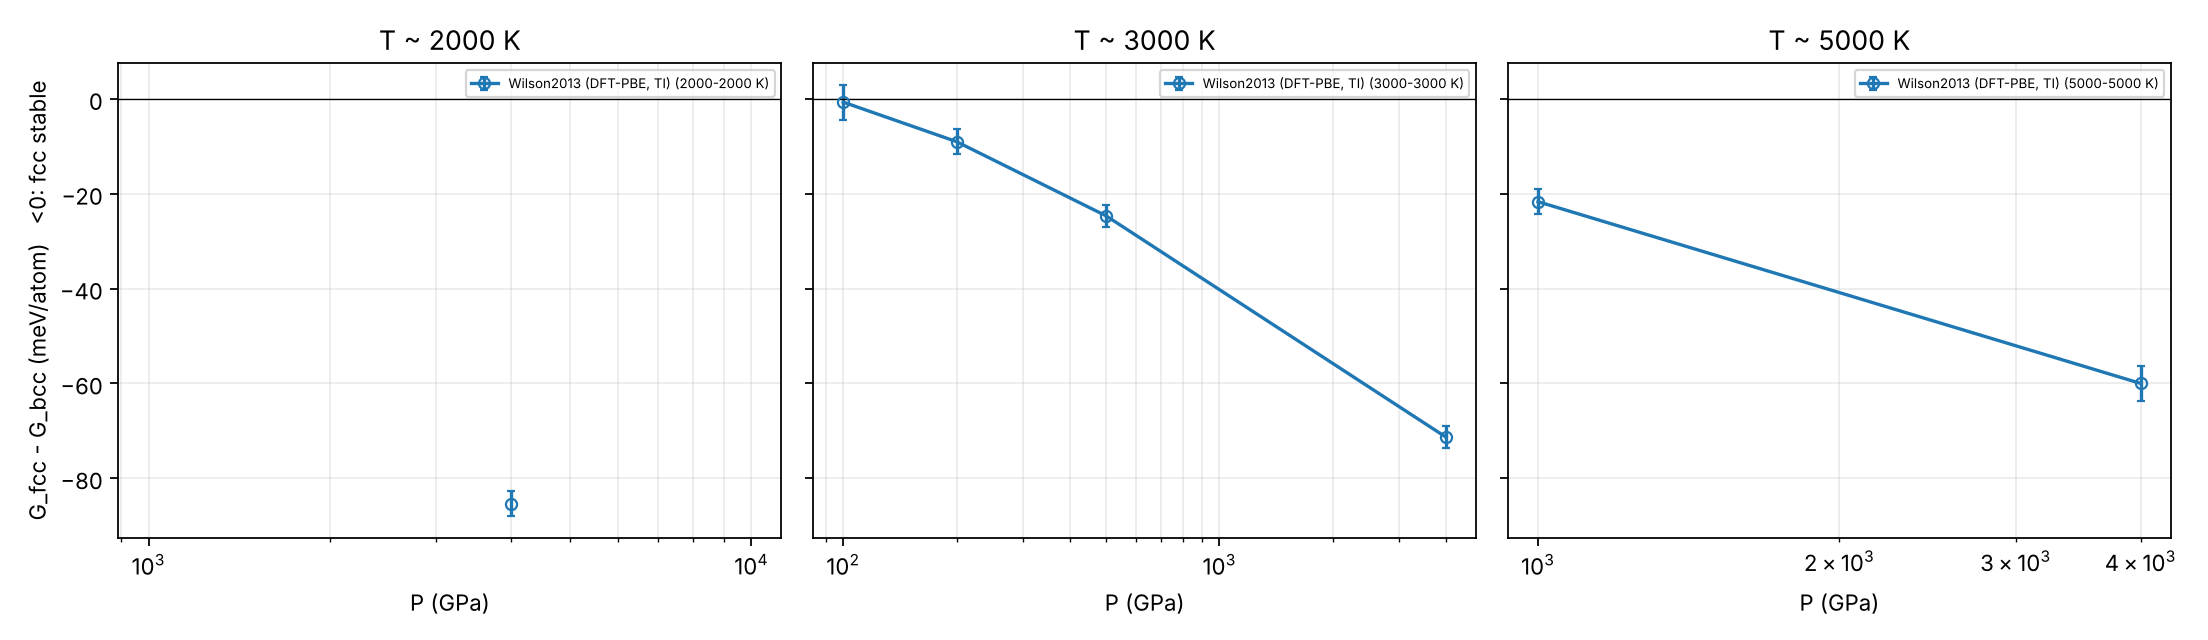
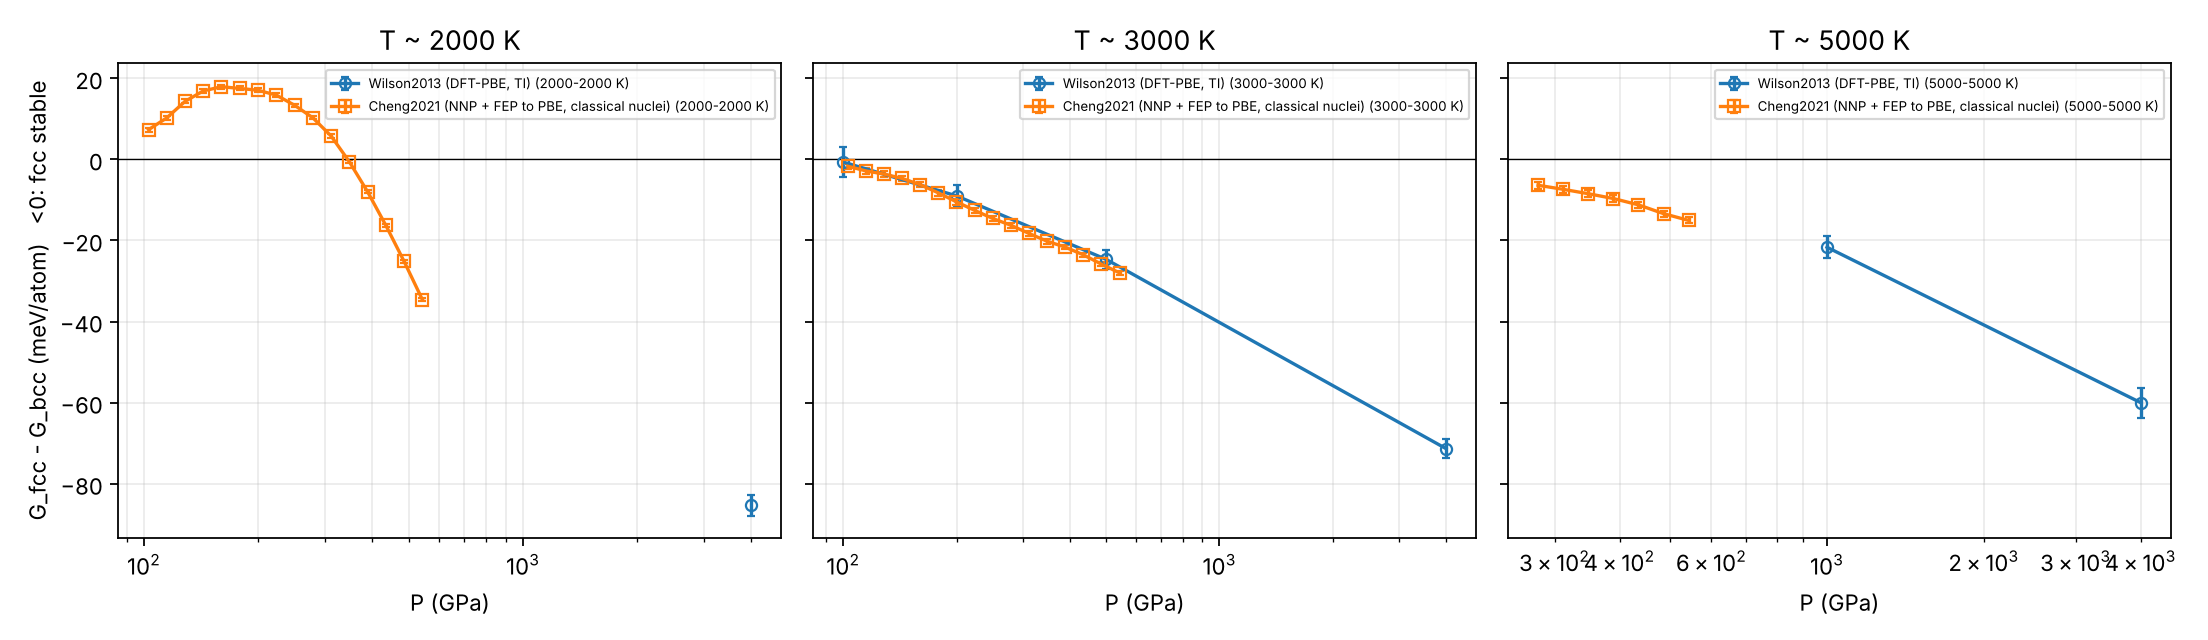
Cheng et al. data: mu_bcc - mu_fcc table extracted (agrees with Wilson at 3000 K), training-set facts, 2022 and 2025 Nature Communications papers read; TDI targets 22.1 meV/atom at 400 GPa and 26.5 at 500 GPa
Claude-Session: https://claude.ai/code/session_01GLhpDtd1VrvkJQKS5bMShY

diff --git a/docs/extract_cheng_mu.py b/docs/extract_cheng_mu.py
@@ -1,0 +1,49 @@
+"""Derive mu_bcc - mu_fcc (eV per H2O molecule) from the tables of Cheng, Bethkenhagen, Pickard, Hamel, Nat. Phys. 17, 1228 (2021),
+data set https://github.com/BingqingCheng/superionic-water (directory chemical-potential; read-only clone, not copied into this repo).
+usage: python docs/extract_cheng_mu.py /path/to/superionic-water [--T 2000 3000 4000 5000]
+Per README of that data set: mu_PBE(+NQE) = mu-mlp-cl + mu-mlp2pbe + mu-nqe. Columns written (eV/molecule; per atom = /3):
+  dmu_mlp   classical nuclei, MLP level      dmu_pbe   + PBE free-energy-perturbation correction (this is what compares to Wilson et al.)
+  err_fep   statistical error of the correction only (the TI error is not tabulated)      dmu_pbe_nqe   + nuclear quantum effects
+Interpolation: bilinear in (ln P, T) on the native grid (80 pressures 10-800 GPa, 60 temperatures 300-5500 K); NaN where any corner is NaN.
+"""
+import argparse, os
+import numpy as np
+
+ap = argparse.ArgumentParser(); ap.add_argument("repo"); ap.add_argument("--T", type=float, nargs="+", default=[2000, 3000, 4000, 5000])
+ap.add_argument("--out", default=os.path.join(os.path.dirname(os.path.abspath(__file__)), "data", "cheng2021_dmu_bcc_fcc.csv"))
+a = ap.parse_args()
+
+
+def grid(name, col=2):
+    d = np.loadtxt(os.path.join(a.repo, "chemical-potential", name))
+    P = np.array(sorted(set(np.round(d[:, 0], 6)))); T = np.array(sorted(set(np.round(d[:, 1], 6))))
+    G = np.full((len(P), len(T)), np.nan)
+    for r in d:
+        G[np.argmin(abs(P - r[0])), np.argmin(abs(T - r[1]))] = r[col]
+    return P, T, G
+
+
+def val(P, T, G, p, t):
+    lp = np.log(P); i = np.searchsorted(lp, np.log(p)) - 1; j = np.searchsorted(T, t) - 1
+    if i < 0 or j < 0 or i + 1 >= len(P) or j + 1 >= len(T):
+        return np.nan
+    x = (np.log(p) - lp[i]) / (lp[i + 1] - lp[i]); y = (t - T[j]) / (T[j + 1] - T[j]); c = G[i:i + 2, j:j + 2]
+    return np.nan if np.isnan(c).any() else (1 - x) * (1 - y) * c[0, 0] + x * (1 - y) * c[1, 0] + (1 - x) * y * c[0, 1] + x * y * c[1, 1]
+
+
+Q = {ph: dict(cl=grid(f"mu-mlp-cl-{ph}.dat"), corr=grid(f"mu-mlp2pbe-{ph}.dat", 2), err=grid(f"mu-mlp2pbe-{ph}.dat", 3), nqe=grid(f"mu-nqe-{ph}.dat")) for ph in ("bcc", "fcc")}
+Pn = Q["bcc"]["cl"][0]
+rows = []
+for T in a.T:
+    for P in Pn[(Pn >= 100) & (Pn <= 800)][::2]:
+        g = {k: [val(*Q[ph][k], P, T) for ph in ("bcc", "fcc")] for k in ("cl", "corr", "err", "nqe")}
+        dcl, dc, dn, e = g["cl"][0] - g["cl"][1], g["corr"][0] - g["corr"][1], g["nqe"][0] - g["nqe"][1], float(np.hypot(*g["err"]))
+        if np.isnan(dcl + dc):
+            continue
+        rows.append((T, P, dcl, dcl + dc, e, dcl + dc + dn))
+with open(a.out, "w") as f:
+    f.write("# mu_bcc - mu_fcc in eV per H2O molecule, derived from Cheng et al. Nat. Phys. 2021 data (github.com/BingqingCheng/superionic-water); positive = fcc more stable. See extract_cheng_mu.py.\n")
+    f.write("T_K,P_GPa,dmu_mlp_eV_mol,dmu_pbe_eV_mol,err_fep_eV_mol,dmu_pbe_nqe_eV_mol\n")
+    for r in rows:
+        f.write(f"{r[0]:.0f},{r[1]:.2f},{r[2]:.5f},{r[3]:.5f},{r[4]:.5f},{r[5]:.5f}\n")
+print(len(rows), "rows ->", a.out)

diff --git a/docs/LITERATURE_NOTES.md b/docs/LITERATURE_NOTES.md
@@ -32,10 +32,15 @@ Same group, same TI machinery: DFT -> classical non-bonding pair potentials fitt
 ## Gupta, Stixrude, Schlichting (arXiv:2407.04685): H2-H2O miscibility
 Direct DFT two-phase coexistence (PBEsol, gamma point, 500 eV, 300-450 atoms, 150-300 ps), critical curve up to 2000 GPa, no H3O molecules found in the fluid. No MLP and no free-energy method for solids; not used for the fcc/bcc work. Possibly relevant for the H-water hull.
 
-## Two Nature Communications papers the user named as having Delta G figures (not readable here; hosts blocked; titles/abstract facts from search excerpts only)
-- https://www.nature.com/articles/s41467-022-32374-1 : "Thermodynamics of high-pressure ice phases explored with atomistic simulations", Nat. Commun. 13, 4707 (2022). PBE machine-learning potential; says the MLP reproduces the free energies of the PBE reference with very small residual error; bcc-oxygen ices VII, VII', X are one thermodynamic phase, superionic VII'' has a first-order boundary with VII'; X -> Pbcm near 300 GPa; liquid-solid coexistence by TI; phase diagram below 100 GPa. Whether it contains an fcc-bcc Delta G is unknown.
-- https://www.nature.com/articles/s41467-025-67063-2 : Andriambariarijaona et al., "Observation of a mixed close-packed structure in superionic water", Nat. Commun. 17, 374 (2025; PMC12796318). Ultrafast X-ray diffraction on shock-compressed water: above about 150 GPa and 2500 K the patterns favour a mixed close-packed (fcc + hcp stacking) superionic phase over pure fcc; signatures of bcc and fcc together at lower pressure. Energetics not seen.
-To use their Delta G numbers: upload the PDFs or screenshots of the figures (axis labels and units visible) and say whether the quantity is per atom or per molecule and which sign (G_bcc - G_fcc or the reverse).
+## Cheng et al. data set (the authors' public repository) and the two Nature Communications papers (read from the uploaded PDFs, 2026-10-26)
+**Repository** https://github.com/BingqingCheng/superionic-water (data set of Cheng, Bethkenhagen, Pickard, Hamel, Nat. Phys. 17, 1228 (2021); cloned read-only outside this repo). Contents: `chemical-potential/` (mu_bcc, mu_fcc, mu_Pbcm, mu_liquid on a grid of 80 pressures 10-800 GPa x 60 temperatures 300-5500 K, in eV per formula unit = per H2O molecule: `mu-mlp-cl-*` classical MLP level, `mu-mlp2pbe-*` correction mu_PBE - mu_MLP by free-energy perturbation with its error, `mu-nqe-*` nuclear quantum effects; PBE+NQE = sum of the three), `training-set/` (N2P2 format, atomic units Hartree/bohr), `nnp/` (network), `vasp-pbe-example/`, `nnp-md-example/`, `phase-boundary/`, `diffusion-coefficient/`, `EOS/`, example structures of bcc/fcc/hcp/mixed superionic phases.
+**mu_bcc - mu_fcc, eV per molecule (positive = fcc more stable), PBE-corrected, classical nuclei, interpolated to 3000 K:** 100 GPa +0.0038(18); 200 GPa +0.0314(20); 300 GPa +0.0527(19); 400 GPa +0.0662(17) (= 22.1(0.6) meV/atom); 500 GPa +0.0794(16) (= 26.5(0.5) meV/atom). Quoted errors are the statistical error of the PBE correction only. **Wilson et al. DFT at 3000 K:** +0.002(11), +0.027(8), +0.074(7) at 100, 200, 500 GPa: the two independent calculations (DFT-TI with 32/54-molecule cells vs a neural-network potential with FEP correction) agree within 1 sigma of Wilson's error bars. NQE change the difference by < 0.002 eV/molecule at 3000 K. At 2000 K the bcc phase is the more stable one below about 340 GPa and fcc above (in that table); at 5000 K the tabulated range is 280-540 GPa. Derived table: `docs/data/cheng2021_dmu_bcc_fcc.csv` (script `docs/extract_cheng_mu.py`); both sources are plotted in `docs/figures/dg_fcc_bcc_vs_P.png`.
+**Their potential and training set:** a Behler-Parrinello network, 2 hidden layers of 20 nodes (`nnp/input.nn`), Kalman-filter training, 200 epochs, trained FROM SCRATCH; the training-set files contain 17,516 structure entries in total (about 3.5 million atoms; typical cells 162 atoms, some 243-378; the "all-committee-*" files may overlap the others), covering 300-15000 K. For comparison our fine-tune uses 747 frames. Force scale of that data: per-component force RMS 4-5.4 eV/A at high P and T (1.7 at 2000 K, 2.3 at 300 K low P), so our 0.73 eV/A validation RMSE is about 14% of the force scale.
+**DFT settings of that data set (`vasp-pbe-example`):** PBE, ENCUT 1000 eV, PREC High, Fermi smearing ISMEAR -1 with SIGMA = 0.2585 eV (kT at 3000 K, as in our data), POTIM 0.25 fs, NBANDS 280, a single Baldereschi mean-value k-point (0.25, 0.25, 0.25), NSW 50000.
+
+**Reinhardt, Bethkenhagen, Coppari, Millot, Hamel, Cheng, Nat. Commun. 13, 4707 (2022), "Thermodynamics of high-pressure ice phases explored with atomistic simulations"** (https://www.nature.com/articles/s41467-022-32374-1; data in https://github.com/BingqingCheng/highP-ice): insulating bcc ices VII/VII'/X are one thermodynamic phase, VII'' superionic has a first-order boundary with VII'; X -> Pbcm near 300 GPa (bifurcation, no barrier), phase diagram below 100 GPa and X vs Pbcm up to 800 GPa. No fcc-bcc numbers. METHOD (relevant to us): chemical potentials by Hamiltonian TI from a harmonic reference crystal (Hessian from phonons, i-PI) to the MLP, then Gibbs-Duhem integration along isotherms and Gibbs-Helmholtz integration along isobars; consistency checked by several independent TI routes (isotherms at 100/300/600/1000 K, along T 100-2000 K, along P 100-800 GPa) and by direct coexistence; errors from 95% confidence bands of polynomial fits; the MLP result is promoted to PBE by adding mu - mu^MLP computed with the **free-energy perturbation method** (this is the correction discussed earlier; they also say the MLP residual error is partly due to missing long-range electrostatics); nuclear quantum effects by path-integral MD (64 formula units, 32 beads), contribution to the chemical-potential difference < 5 meV per molecule. VASP 5.4, ENCUT 1000 eV, k-spacing 0.3 /A. MLP MD: LAMMPS NPT, 128-2048 molecules, 0.5 fs. Metadynamics for the solid-solid transition. They also state that superionic fcc (ice XVIII) and superionic hcp have similar chemical potentials and are both stable between about 100 and 800 GPa (their ref. 18 = the 2021 Nat. Phys. paper).
+
+**Andriambariarijaona et al., Nat. Commun. 17, 374 (2025), "Observation of a mixed close-packed structure in superionic water"** (https://www.nature.com/articles/s41467-025-67063-2; source data https://doi.org/10.6084/m9.figshare.30624377; EuXFEL data https://doi.org/10.22003/XFEL.EU-DATA-004463-00, embargo until 2026-10-30): ultrafast XRD of multiply shock-compressed water up to about 180 GPa. Above 150 GPa and about 2500 K the patterns need a mixed close-packed (fcc/hcp stacking disorder, hcp probability alpha 0.25-0.32) superionic phase rather than pure fcc; around 20-100 GPa and 2000-2500 K bcc and fcc signatures coexist (their Fig. 5 shows the mu_bcc = mu_fcc region of Cheng et al. as a hatched area near 25-110 GPa, 1600-2500 K). Simulations used the same Cheng potential (n2p2 in LAMMPS, trained on the PBE data set of Cheng et al.), up to 13,824 molecules, 100 ps NPT at 0.25 fs, XRD computed from snapshots. No free energies.
 
 ## Not obtained
-Cheng, Bethkenhagen, Pickard, Hamel, Nat. Phys. 17, 1228 (2021) (MLP free energies, fcc/bcc/Pbcm; UF-fluid reference): not available in this sandbox (hosts blocked); the user believes the paper is public and has ML dG numbers. If you can upload the PDF it can be read like these.
+The text of Cheng et al., Nat. Phys. 17, 1228 (2021) itself (the free-energy method is described there: Einstein crystal for O + Uhlenbeck-Ford fluid for the protons, per an earlier search excerpt); only its data repository was read. Upload the PDF if the method details are needed.

diff --git a/docs/TDI_PLAN.md b/docs/TDI_PLAN.md
@@ -22,7 +22,7 @@ The DFT cells are fcc-h2o-108 (108 O, 324 atoms) and bcc-h2o-128 (128 O, 384 ato
 Caveats: the dataset tiers pool fcc and bcc in the same (T, 100 GPa) bin, so each phase gets only part of the 1 (s) / 3 (m) runs per bin; whether a run stayed solid, became superionic or melted is not in its folder name (09_label_phase.py).
 
 ## Literature on the fcc-bcc free-energy difference (2026-10-26; from search excerpts only, the papers themselves could not be opened: this sandbox blocks arxiv/nature/osti hosts)
-NUMBERS NOW AVAILABLE for Wilson 2013 (Table I of the paper, entered by the user; see docs/LITERATURE_NOTES.md and docs/data/dg_fcc_bcc.csv): G_fcc - G_bcc at 3000 K is -0.7(3.7) meV/atom at 100 GPa, -9.0(2.7) at 200 GPa, -24.7(2.3) at 500 GPa, -71(2) at 4000 GPa (per atom = eV/molecule / 3). Cheng et al. 2021 numbers: still not obtained.
+NUMBERS NOW AVAILABLE for Wilson 2013 (Table I of the paper, entered by the user; see docs/LITERATURE_NOTES.md and docs/data/dg_fcc_bcc.csv): G_fcc - G_bcc at 3000 K is -0.7(3.7) meV/atom at 100 GPa, -9.0(2.7) at 200 GPa, -24.7(2.3) at 500 GPa, -71(2) at 4000 GPa (per atom = eV/molecule / 3). Cheng et al. 2021 (NNP + FEP to PBE, from the authors' public data tables) agree with Wilson at 3000 K: mu_bcc - mu_fcc = 0.0038(18), 0.0314(20), 0.0794(16) eV/molecule at 100, 200, 500 GPa and 0.0662(17) eV/molecule (= 22.1 meV/atom) at 400 GPa. TARGETS for our MLP-TDI at 3000 K: 26.5 meV/atom at 500 GPa, 22.1 meV/atom at 400 GPa (G_fcc lower). Their TI method (Hessian-based harmonic reference crystal, TI along several routes as a consistency check, error bands from polynomial fits, free-energy perturbation to PBE for the MLP error) is described in docs/LITERATURE_NOTES.md.
 - Wilson, Wong, Militzer, PRL 2013, https://militzer.berkeley.edu/papers/Wilson_Militzer_superionic_transition.pdf (arXiv:1211.6482): DFT molecular dynamics; two-step coupling-constant integration from a simpler analytic reference; Table I lists G_bcc - G_fcc split into P dV, dU and T dS; points from about 1 Mbar to 40 Mbar; bcc unstable against fcc above 1.0 +- 0.5 Mbar; fcc has lower H mobility.
 - Cheng, Bethkenhagen, Pickard, Hamel, Nature Physics 2021, https://www.nature.com/articles/s41567-021-01334-9 (arXiv:2103.09035; data and potential at https://github.com/BingqingCheng/superionic-water): neural-network potential trained on PBE DFT, free energies by TI at the PBE level. Reference system: Einstein crystal for the O lattice + Uhlenbeck-Ford potential for the protonic fluid. Result: close-packed (fcc with mixed stacking in finite cells) is stable over a wide P-T range; bcc is thermodynamically stable only in a small window but kinetically favoured.
 - Qualitative statements seen in excerpts (not numbers): Wilson 2013 find G_fcc < G_bcc at all conditions studied except 1 Mbar and 3000 K, where the difference is close to zero; an excerpt of arXiv:2103.09035 says the fcc-hcp difference is under 10 meV per H2O formula unit (about 3 meV/atom by my division by 3), which is a stacking, not a bcc-fcc, number; a 2026 preprint (arXiv:2601.03659) says the bcc superionic transition at 200 GPa is at 2250-2600 K, about 500 K above fcc; Nature Communications 2025, https://www.nature.com/articles/s41467-025-67063-2, 'Observation of a mixed close-packed structure in superionic water' (experiment; not read). An excerpt of arXiv:1810.05658 lists dU = U_fcc - U_bcc of 0.03-1.0 eV/atom (internal energy, not G, and not checked).

diff --git a/HANDOFF.md b/HANDOFF.md
@@ -21,7 +21,7 @@ tiers s/m/l = 212 / 932 / 1281 frames (train/valid grouped by run directory: tra
 - Zero-shot (see PROJECT.md): GRACE-2L-SMAX-OMAT-medium and MatterSim 5M are usable, MACE variants and OMat24-only models are not (mh-1 heads all fail).
 - Fine-tune GRACE-2L-SMAX-OMAT-medium (`grace_make_input.py`, `grace_ft_run.sh`, only `I1/I2/rho reducing_` layers trainable, Huber delta 0.01, weights E1/F5/S10, 2000 updates, batch 2, about 33 min, GPU peak 38.9 GB of 40): `ft_m2` on the rebuilt data, validation: energy MAE 18.4 meV/atom, force MAE 511 meV/A (RMSE 730), stress MAE 2.05 GPa; zero-shot start on the same frames 96 meV/atom, 1017 meV/A, 20.7 GPa. Train about equal to validation: **underfitting, not data-limited**. Not yet tried: unfreezing all weights (`--naive`), many more updates (only about 5 epochs so far), larger model.
 - EOS by MD (`17_eos_md.py`, `18_plot_eos_md.py`): bcc 3000 K, medium model within 3 GPa / 0.35% in volume of DFT (small model 7 GPa / 0.5%). An apparent -15 to -22 GPa "bias" was an analysis bug (double-counted kinetic term); all conclusions drawn from it were withdrawn (PROJECT.md). H diffusion 6-8e-4 cm2/s, O frozen. fcc EOS-MD and fcc frame check: frame errors <= 1.5 GPa; fcc EOS-MD not yet run (use P = 350-500 GPa).
-- Literature (docs/LITERATURE_NOTES.md, docs/data/dg_fcc_bcc.csv, `docs/plot_dg_vs_P.py`): Wilson et al. Table I, G_fcc - G_bcc at 3000 K per atom: -0.7(3.7) meV at 100 GPa, -9.0(2.7) at 200, **-24.7(2.3) at 500**, -71(2) at 4000 GPa. Cheng et al. Nat. Phys. 2021 numbers not yet obtained.
+- Literature (docs/LITERATURE_NOTES.md, docs/data/dg_fcc_bcc.csv, `docs/plot_dg_vs_P.py`): Wilson et al. Table I, G_fcc - G_bcc at 3000 K per atom: -0.7(3.7) meV at 100 GPa, -9.0(2.7) at 200, **-24.7(2.3) at 500**, -71(2) at 4000 GPa. Cheng et al. (public data tables, github.com/BingqingCheng/superionic-water, read-only clone not in git; derived table docs/data/cheng2021_dmu_bcc_fcc.csv, script docs/extract_cheng_mu.py) agree at 3000 K: **targets for our TDI: G_fcc - G_bcc = -26.5 meV/atom at 500 GPa, -22.1 at 400 GPa**. Their NNP was trained from scratch on about 17.5k structures; the 2022 Nat. Commun. paper (Reinhardt et al.) confirms the FEP correction to PBE and gives their TI consistency checks (see docs/LITERATURE_NOTES.md).
 
 ## TDI engine (`mlp_pipeline/tdi/`)
 `refs.py` analytic references (Einstein crystal with fixed O-COM, ideal gas, harmonic network, kinetic terms), `engine.py` (stages direct/stage1/stage2, `FixGroupCom`, Langevin run per lambda), `analyze.py` (Gauss-Legendre in lambda^p, block errors). `python mlp_pipeline/tdi/test_harmonic.py` reproduces an analytic harmonic-crystal free energy to 0.5 meV total (PASS, 8 lambda nodes). Use Langevin: Bussi does not thermalise the modes of a harmonic crystal. Not yet written: structure builder + runner for the real system (builder exists in `17_eos_md.py::build`), GRACE components (full and O-only), proton reference (ideal gas; Uhlenbeck-Ford fluid is the alternative used by Cheng et al.), the DFT-level correction, Slurm array scripts. Plan: first state point 500 GPa 3000 K (Wilson's 5 Mbar row), then 400 GPa; DFT-sized cells (128 O bcc / 108 O fcc); check bcc stays bcc in 20 ps NVT first.

diff --git a/docs/papers/README.md b/docs/papers/README.md
@@ -9,3 +9,5 @@ Facts taken from them are in [../LITERATURE_NOTES.md](../LITERATURE_NOTES.md).
 | `7b03cef5-h2o-G-prl-Supplementary_Material.pdf` | online supplement of the above |
 | `96d993cd-Soubiran_2015_ApJ_806_2282.pdf` | Soubiran, Militzer, "Miscibility calculations for water and hydrogen in giant planets", ApJ 806, 228 (2015) |
 | `d2beb41e-gupta-stixrude-h2o-h2-2407.04685v1.pdf` | Gupta, Stixrude, Schlichting, "The miscibility of hydrogen and water in planetary atmospheres and interiors" (arXiv:2407.04685) |
+| `a2be2344-s41467-025-67063-2.pdf` | Andriambariarijaona et al., "Observation of a mixed close-packed structure in superionic water", Nat. Commun. 17, 374 (2025) |
+| `4b4bab7f-s41467-022-32374-11.pdf` | Reinhardt, Bethkenhagen, Coppari, Millot, Hamel, Cheng, "Thermodynamics of high-pressure ice phases explored with atomistic simulations", Nat. Commun. 13, 4707 (2022) |
